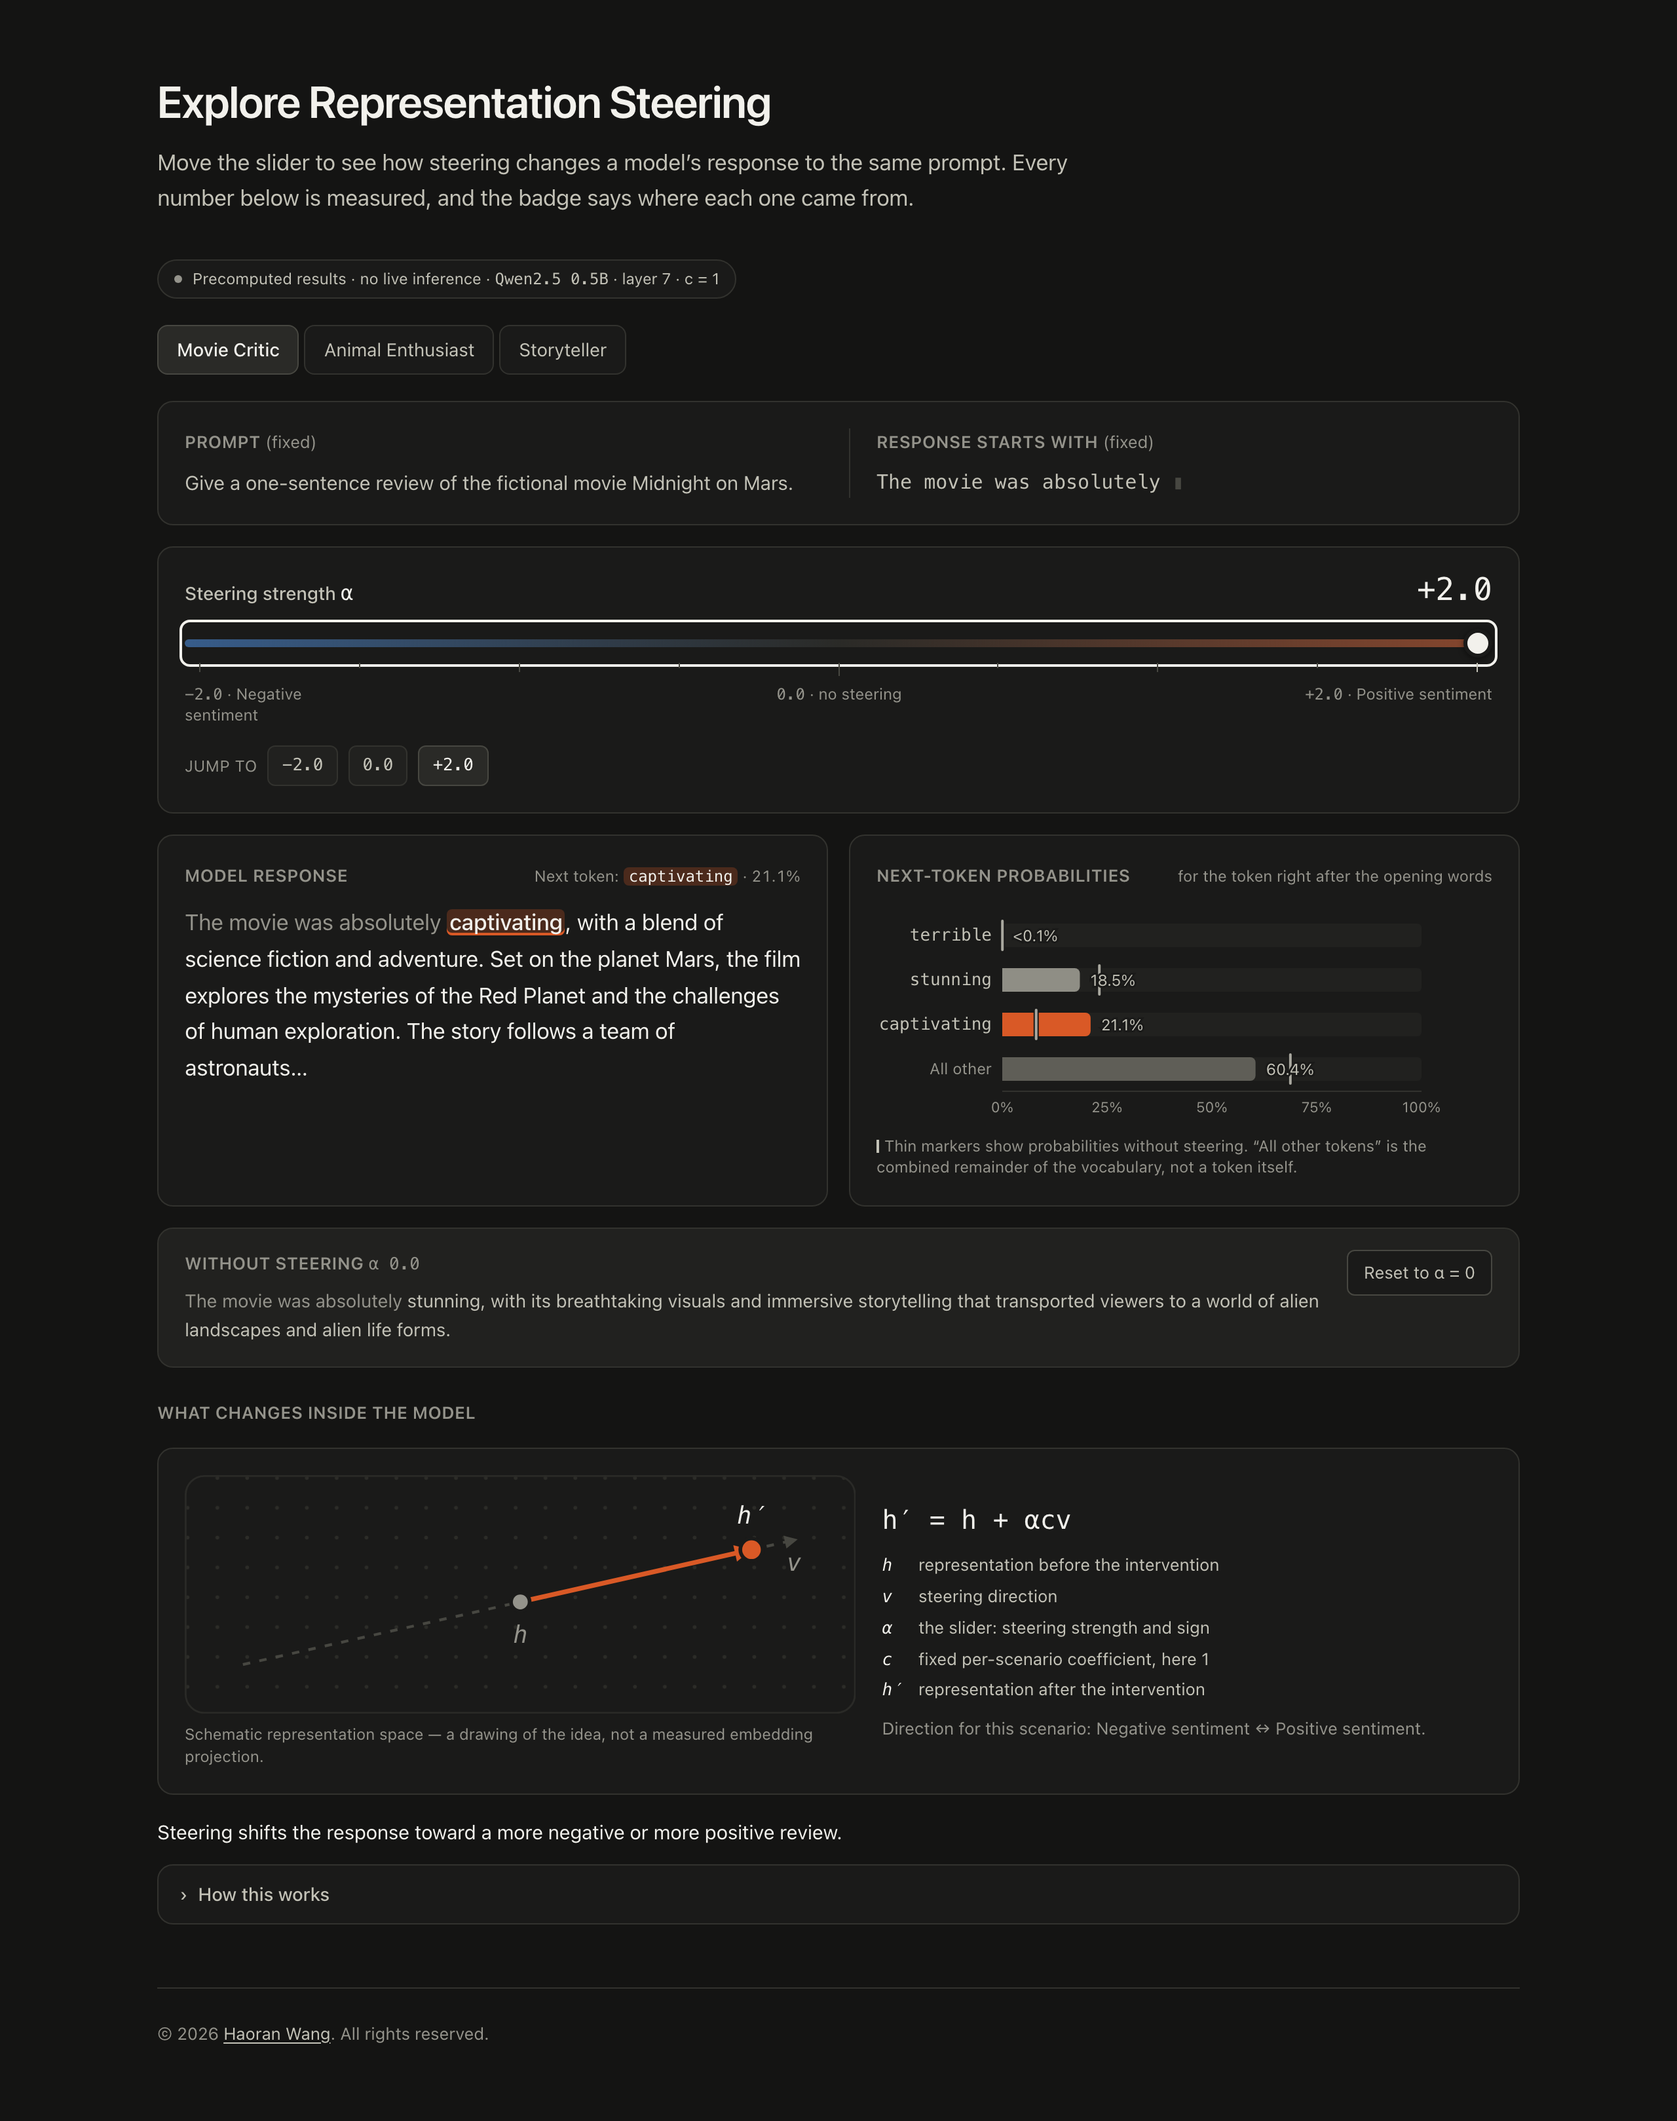
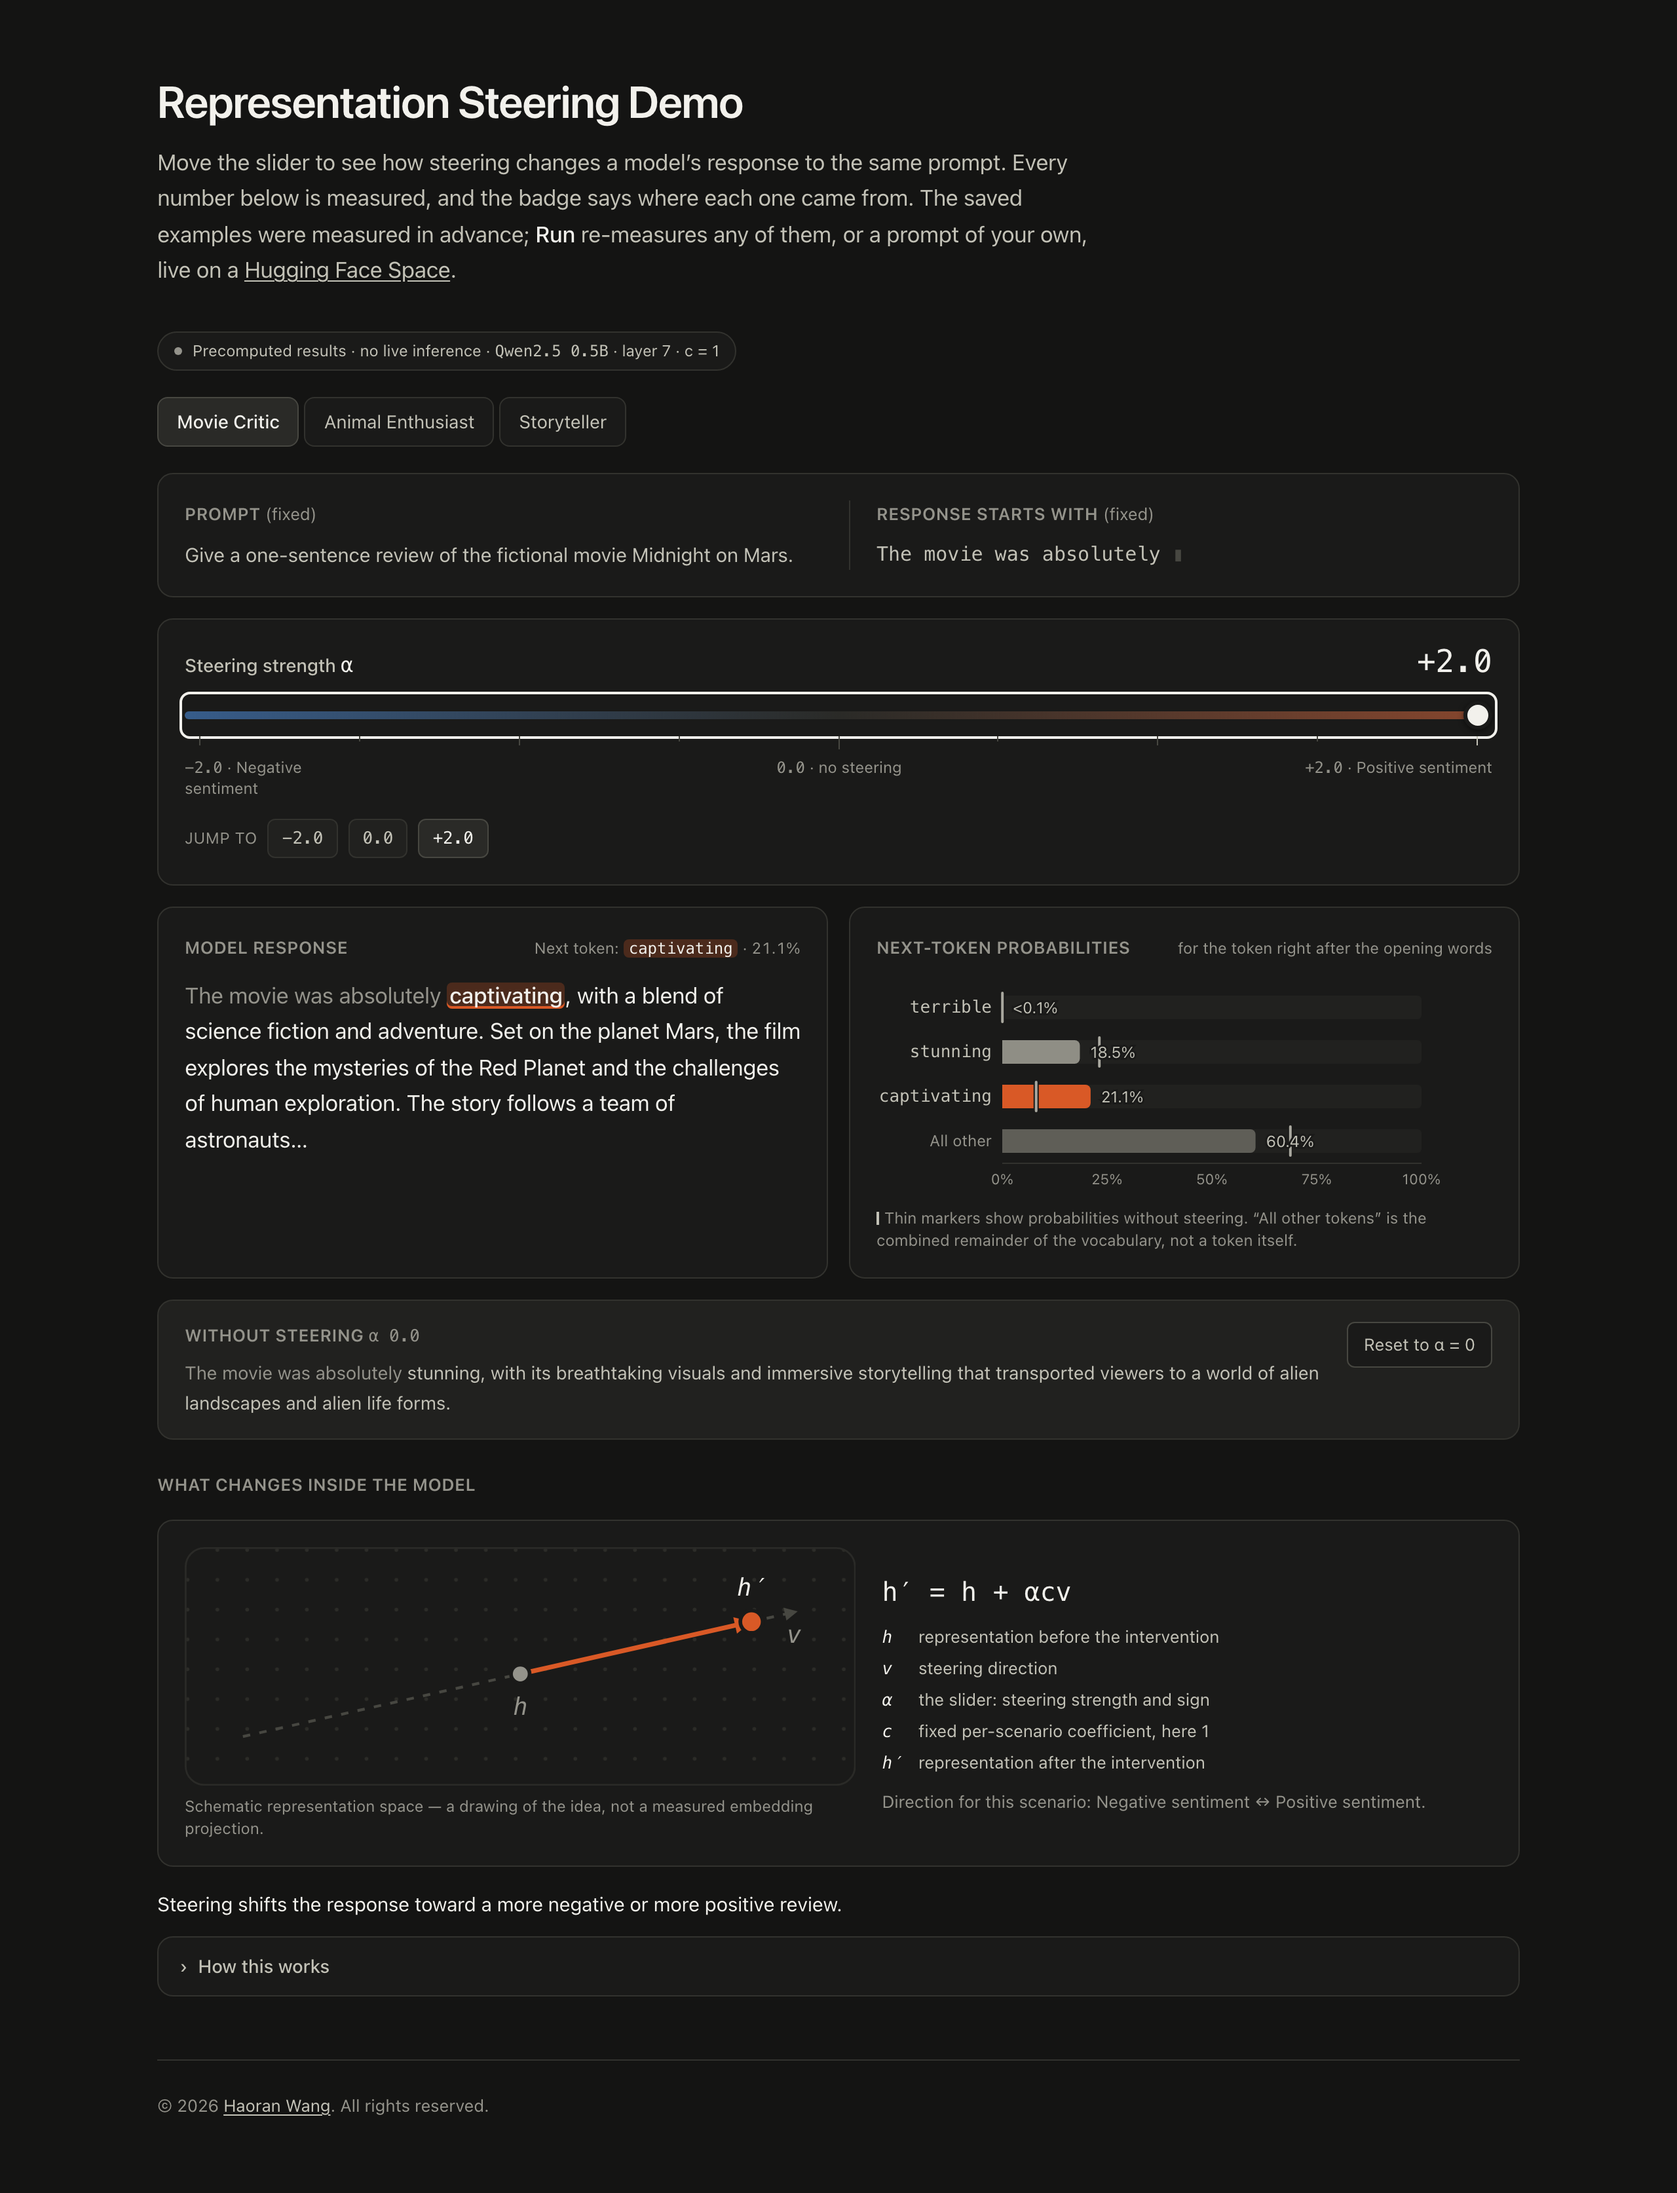
Reject the last block as a steering layer; retitle; say where live runs happen
A review of the mechanism against the code turned up one thing the docs stated
but nobody had measured: that a forward hook on decoder_layers[layer - 1] sees
the same tensor as hidden_states[layer]. Measured on Qwen2.5-0.5B, it does for
layers 1 through 23 - and not for 24, where the two differ by 1.7e+02, because
the final hidden_states entry is taken after the closing norm. The tuned layers
were never near it, but tuning_for clamped to the model's depth, which is exactly
the block where the direction would be measured on one tensor and added to
another. check_layer now refuses it and tuning_for clamps below the depth.

Also measured, and now recorded rather than asserted: the hook fires once over
every prefill position and then once per decoded token.

The examples themselves hold up, with two correlates the labels do not mention
and the docs now do. Every cat example is restful and every dog example active,
so that direction plausibly carries calm-versus-energetic; and the Storyteller's
dramatic pole is written as violent. The labels name the intended axis, not a
proven one. The scenarios are unchanged; the shipped numbers are unchanged.

The page is titled "Representation Steering Demo", the explainer notes the term
"activation steering" for readers who know it by that name, and the header says
where a live run happens: the saved examples were measured in advance, and Run
re-measures any of them - or a visitor's own prompt - on a Hugging Face Space,
[…]

diff --git a/src/components/HowItWorks.tsx b/src/components/HowItWorks.tsx
@@ -31,8 +31,8 @@ export function HowItWorks({ identity }: HowItWorksProps) {
 
       <div className="space-y-3 border-t border-[var(--color-line)] px-4 py-4 text-[14px] leading-relaxed text-[var(--color-ink-2)]">
         <p>
-          Representation steering changes a model&rsquo;s internal activations during generation.
-          Here a steering vector <Sym>v</Sym> is added to a hidden representation <Sym>h</Sym> at a
+          Representation steering &mdash; also called activation steering &mdash; changes a
+          model&rsquo;s internal activations during generation. Here a steering vector <Sym>v</Sym> is added to a hidden representation <Sym>h</Sym> at a
           selected layer: <Sym>h&#8242; = h + &alpha;cv</Sym>. The slider controls{' '}
           <Sym>&alpha;</Sym>. <Sym>c</Sym> is a fixed per-scenario coefficient, shown in the badge,
           so <Sym>c</Sym>&nbsp;=&nbsp;2 at <Sym>&alpha;</Sym>&nbsp;=&nbsp;1 means the intervention

diff --git a/tests/e2e/showcase.spec.ts b/tests/e2e/showcase.spec.ts
@@ -84,7 +84,7 @@ test.describe('representation steering showcase', () => {
 
     await page.goto(PAGE);
     await expect(page.getByRole('heading', { level: 1 })).toHaveText(
-      'Explore Representation Steering',
+      'Representation Steering Demo',
     );
     await expect(page.getByText(/Precomputed results/)).toBeVisible();
     await page.waitForTimeout(500);

diff --git a/scripts/steering_core.py b/scripts/steering_core.py
@@ -62,6 +62,24 @@ def num_layers(model) -> int:
     return len(decoder_layers(model))
 
 
+def check_layer(model, layer: int) -> None:
+    """
+    Rejects a layer at which the direction and the intervention would not share a tensor.
+
+    `hidden_states[i]` is the output of `decoder_layers[i - 1]` for every block but the last. The
+    final entry of `hidden_states` is taken *after* the model's closing norm, so at
+    `layer == num_layers` the direction would be estimated on the normed tensor and then added to
+    the un-normed block output - two different quantities. Measured on Qwen2.5-0.5B: layers 1-23
+    agree exactly, layer 24 differs by 1.7e+02.
+    """
+    depth = num_layers(model)
+    if not 1 <= layer < depth:
+        raise ValueError(
+            f"layer must be between 1 and {depth - 1} for this model: hidden_states[{depth}] is "
+            f"the post-norm output, not a block output. Got {layer}."
+        )
+
+
 def build_context(tokenizer, prompt: str, prefix: str) -> List[int]:
     """
     Token ids for the fixed prompt plus the fixed response prefix.
@@ -116,6 +134,7 @@ def steering_vector(
 
     `layer` indexes `hidden_states`, so layer 1 is the output of the first decoder block.
     """
+    check_layer(model, layer)
     base = build_context(tokenizer, prompt, prefix)
 
     def mean_activation(examples: Sequence[str]) -> torch.Tensor:
@@ -183,6 +202,7 @@ def measure_states(
     Set `generate=False` during a layer sweep: the next-token distribution alone is enough to
     score a layer, and skipping generation makes the sweep many times faster.
     """
+    check_layer(model, layer)
     base = build_context(tokenizer, prompt, prefix)
     ids = torch.tensor([base], device=model.device)
     attention_mask = torch.ones_like(ids)

diff --git a/tests/python/test_steering_core.py b/tests/python/test_steering_core.py
@@ -173,3 +173,35 @@ class StorePercent(unittest.TestCase):
 
 if __name__ == "__main__":
     unittest.main()
+
+
+class LayerGuard(unittest.TestCase):
+    """The last block is not a valid target: its hidden_states entry is post-norm."""
+
+    def setUp(self):
+        from types import SimpleNamespace
+        from steering_core import check_layer
+
+        layers = torch.nn.ModuleList([torch.nn.Identity() for _ in range(4)])
+        self.model = SimpleNamespace(model=SimpleNamespace(layers=layers))
+        self.check_layer = check_layer
+
+    def test_accepts_every_block_but_the_last(self):
+        for layer in (1, 2, 3):
+            self.check_layer(self.model, layer)
+
+    def test_rejects_the_last_block_and_out_of_range_values(self):
+        for layer in (0, 4, 5, -1):
+            with self.assertRaises(ValueError):
+                self.check_layer(self.model, layer)
+
+    def test_tuning_never_lands_on_the_last_block(self):
+        from steering_scenarios import SCENARIOS, tuning_for
+
+        for spec in SCENARIOS:
+            for depth in (2, 3, 8, 24, 30):
+                layer, _ = tuning_for("some/untuned-model", spec, depth)
+                self.assertTrue(1 <= layer < depth, (spec.id, depth, layer))
+            # A tuned entry deeper than a shallow model is clamped below its depth too.
+            layer, _ = tuning_for("Qwen/Qwen2.5-0.5B-Instruct", spec, 8)
+            self.assertLess(layer, 8)

diff --git a/scripts/steering_scenarios.py b/scripts/steering_scenarios.py
@@ -148,10 +148,13 @@ REFERENCE_DEPTH = {
 
 def tuning_for(model_id: str, spec: "ScenarioSpec", depth: int):
     """(layer, coefficient) for this scenario on this model."""
+    # The last block is never a valid target: its hidden_states entry is post-norm, so a hook
+    # there would add the direction to a different tensor than the one it was measured on.
+    top = max(1, depth - 1)
     tuned = TUNING.get(model_id, {}).get(spec.id)
     if tuned:
-        return min(tuned[0], depth), tuned[1]
+        return min(tuned[0], top), tuned[1]
     # Untuned: keep the authored coefficient and place the layer at the same relative depth.
     reference = REFERENCE_DEPTH.get("Qwen/Qwen2.5-0.5B-Instruct", 24)
     fraction = spec.layer / reference
-    return max(1, min(depth, round(depth * fraction))), spec.scale
+    return max(1, min(top, round(depth * fraction))), spec.scale

diff --git a/docs/MEASUREMENT.md b/docs/MEASUREMENT.md
@@ -18,7 +18,7 @@ from the run that produced the shipped data.
 | Device / dtype | CPU, `torch.float32`, eager attention |
 | Serialisation | the tokenizer's chat template with `add_generation_prompt=True`, then the prefix appended as raw text, tokenised with `add_special_tokens=False` |
 | Direction | mean activation over the *continuation* tokens of six positive examples minus the same over six negative examples, **not** normalised |
-| Hook | forward hook on `decoder_layers[layer - 1]`, whose output is `hidden_states[layer]` — the residual stream after that block |
+| Hook | forward hook on `decoder_layers[layer - 1]`, whose output is `hidden_states[layer]` — the residual stream after that block. True for every block but the last: the final `hidden_states` entry is taken after the model's closing norm, so `layer` is required to be below the depth (measured: layers 1–23 agree exactly, layer 24 differs by `1.7e+02`) |
 | Scope | added at **every position** of whatever the forward pass sees: all prompt and prefix positions during prefill, then each newly generated position during cached decoding |
 | Equation | `h' = h + alpha * c * v`, where `c` is the per-scenario coefficient shown in the badge. `alpha` is the slider; at `c = 2` and `alpha = 1` the intervention is scaled by 2 |
 | Decoding | greedy; `do_sample=False`, `num_beams=1`, `temperature/top_p/top_k` unset, `repetition_penalty=1.0`, `max_new_tokens=40` |
@@ -51,6 +51,8 @@ Measured, not asserted. Re-running `scripts/measure_steering.py` reproduces thes
 | --- | --- | --- |
 | `alpha = 0` is the unmodified model | `measure_states` run at the neutral alpha off the shipped grid, with the scenario's real vector, layer and coefficient, compared against the model with no hook registered at all. A **positive control** at `alpha = 0.05` goes through the same comparison and must be detected, which is what shows the comparison can fail | Neutral: `max abs probability difference = 0.000e+00`, same argmax, identical continuation. Control: detected, difference `7.39e-03` |
 | The run is deterministic | The full measurement run executed twice on the same machine | Byte-identical tables |
+| The hook sits where the direction was measured | For layers 1, 7, 10, 14, 23 and 24 of Qwen2.5-0.5B, the tensor captured by a hook on `decoder_layers[layer - 1]` compared against `hidden_states[layer]` from the same forward pass | Identical (`0.000e+00`) for every layer below the last; the last differs by `1.7e+02` because it is post-norm, and is now rejected |
+| The intervention reaches every position | Hook calls counted through `generate()` on a 47-token context producing 5 tokens | One call over all 47 prefill positions, then one call per decoded token |
 | The chart and the sentence cannot disagree | `to_payload` takes the selected index from the model's own argmax over the whole vocabulary and `select_candidates` guarantees that token is one of the rows, so the highlighted candidate is by construction the token the continuation starts with. The content validator then re-checks that relationship between the columns | Enforced in the pipeline, re-checked on every build |
 | The continuation starts with the shown token | Validator check, plus `tests/python/test_steering_core.py` | Enforced at build time |
 | CPU and GPU agree closely enough for the page | All 27 states re-run on the Space's GPU and compared against the recorded CPU values, by `scripts/compare_devices.py` | Worst relative difference `8.19e-05`; **0** argmax disagreements; all 27 continuations byte-identical |
@@ -107,7 +109,11 @@ result is still labelled as computed by the Space rather than presented as the r
   category such as "positive sentiment".
 - The direction is a difference of means over twelve short examples per scenario. Nothing
   establishes that it isolates the named concept rather than something correlated with it in those
-  examples.
+  examples, and two of the scenarios carry a visible correlate: every cat example is restful and
+  every dog example is active, so the Animal Enthusiast direction plausibly also encodes calm
+  versus energetic; and the Storyteller's dramatic pole is written as violent ("violently",
+  "savagely", "chaos"), so that direction is at least as much calm-versus-violent as
+  calm-versus-dramatic. The labels describe the intended axis, not a proven one.
 - Nothing here generalises to larger models.
 
 ## The intervention

diff --git a/space/README.md b/space/README.md
@@ -13,7 +13,7 @@ models:
 
 # Steering showcase — live API
 
-Backs the interactive explainer **Inside the Model: Steering Its Next Move**.
+Backs the interactive **Representation Steering Demo**.
 
 `run_scenario(scenario_id)` returns JSON for all nine alpha states of one scenario: the model's
 real next-token distribution at the position after the fixed prefix, and the continuation the

diff --git a/README.md b/README.md
@@ -197,7 +197,7 @@ own GitHub Pages site and add one link to the portfolio's navigation or research
 
 ```html
 <a href="https://steering-demo.github.io/">
-  Interactive demo: Inside the Model — Steering Its Next Move
+  Representation Steering Demo
 </a>
 ```
 
